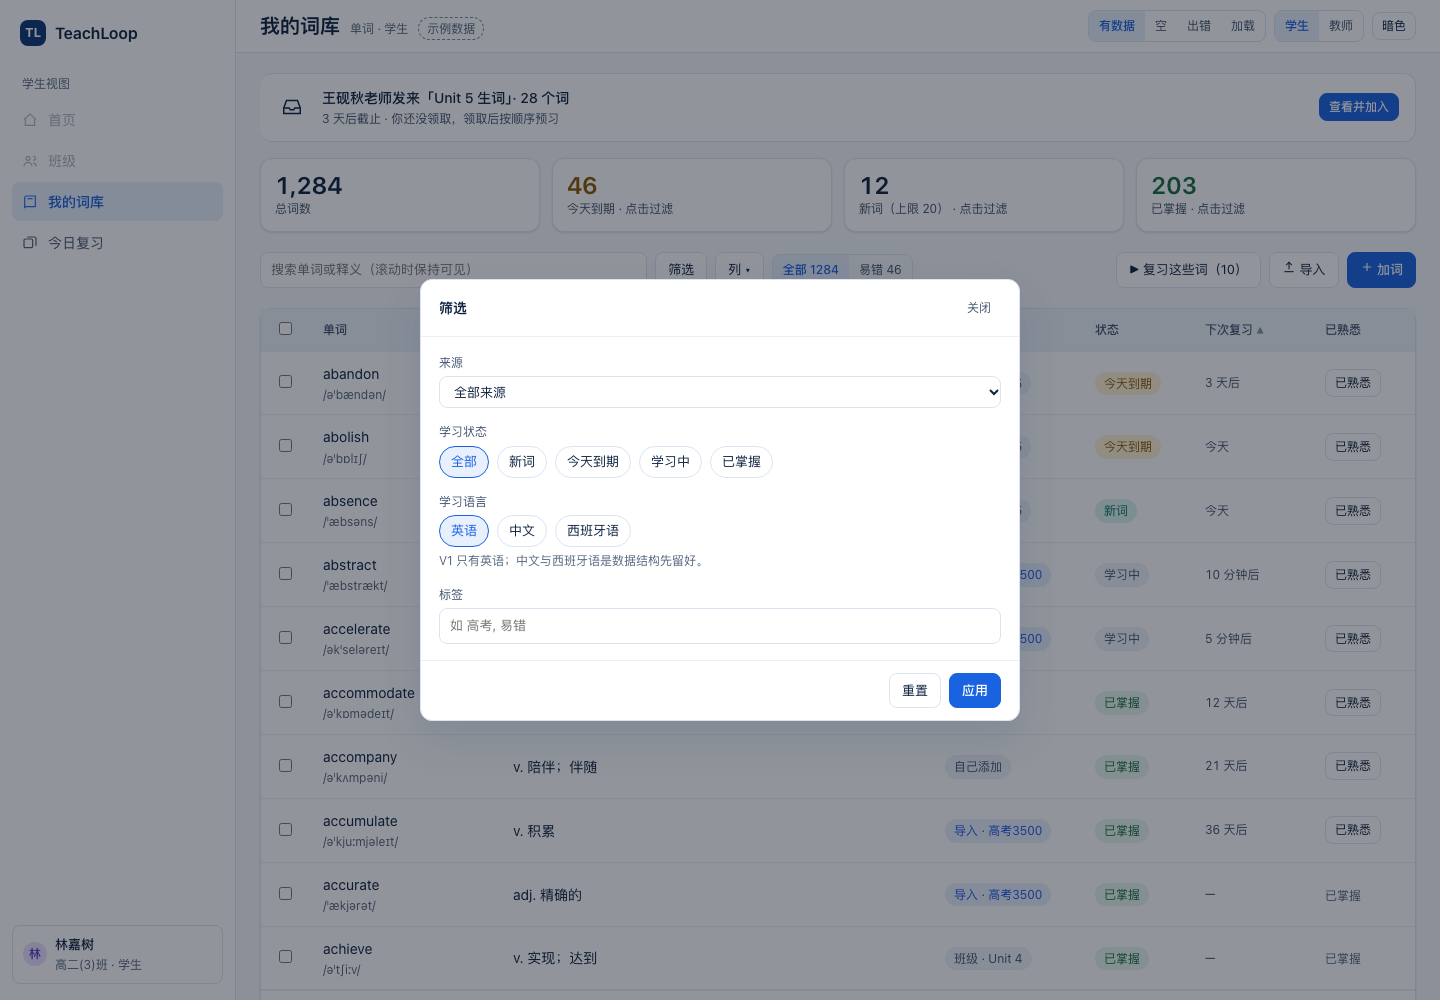
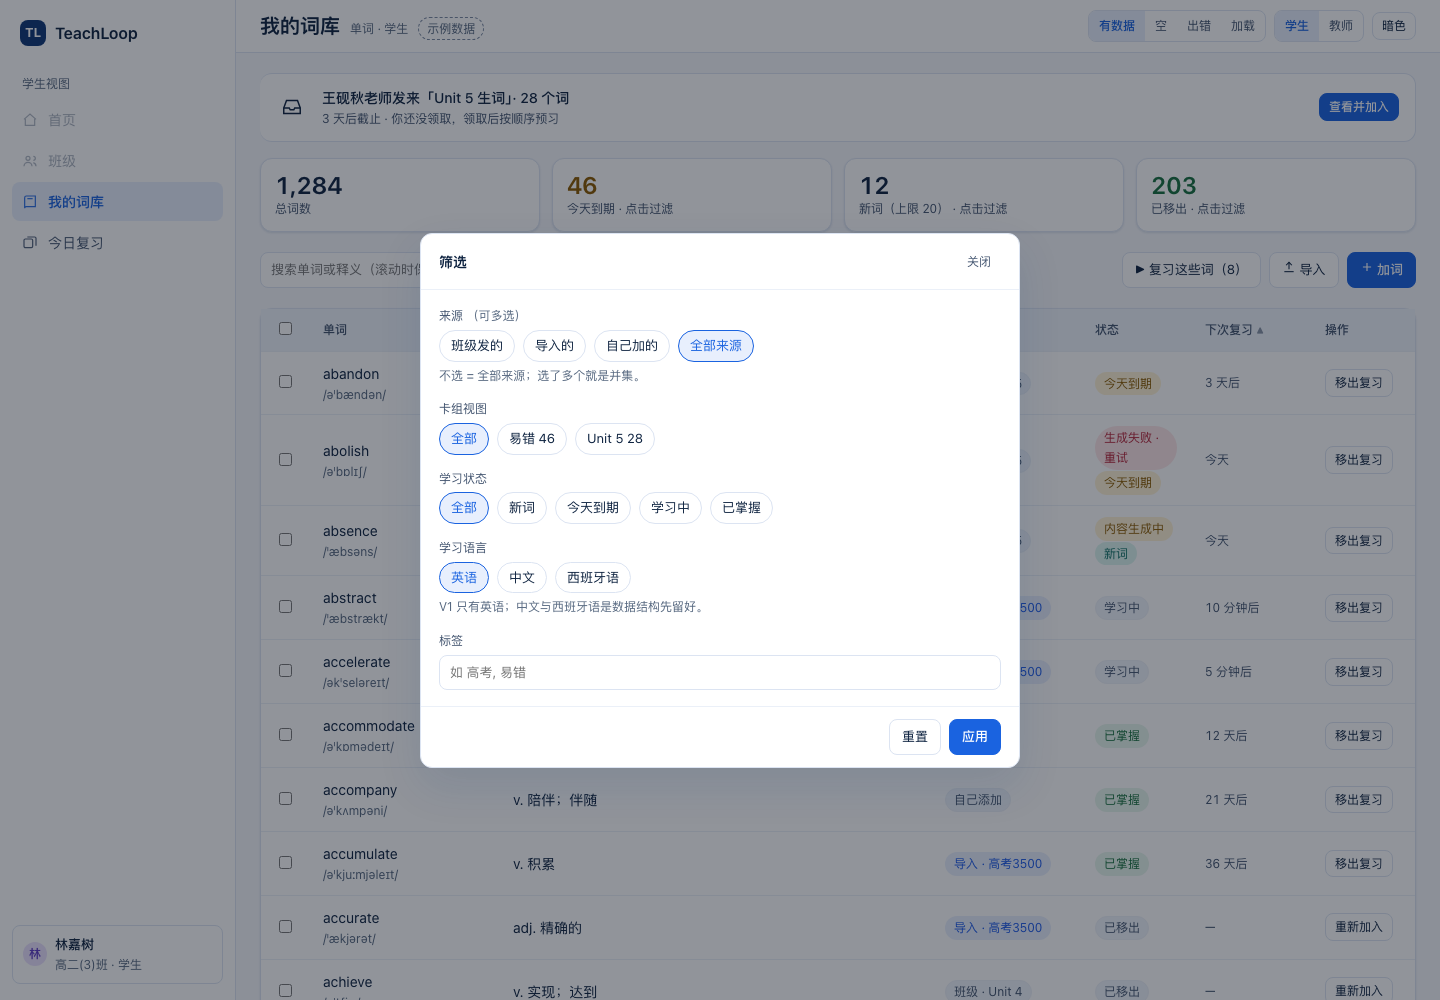
docs(vocab): 原型第四版——加词入口改词库按钮、视图并入筛选、复习范围=筛选结果
按 2026-10-23 第四轮反馈：

- 「加词 / 导入」不再占一级导航，入口改为词库工具条的「导入」「加词」两个按钮
  （分别落到文件 tab / 粘贴 tab）
- 移除工具条的「全部 1284 / 易错 46」切换，视图合并进筛选弹窗
- 「复习这些词」按筛选结果取数并排除「已移出」，按钮显示排除后的数量（示例 10−2=8）
- 筛选弹窗的「来源」改为多选（并集），新增「卡组视图」字段

spec 同步：AC-59.8 多选来源 + 视图进弹窗；AC-61.1 明确范围为筛选结果且排除已移出；
新增 §16 记录本轮四条反馈。

diff --git a/docs/mock/vocab-2026-10-23/index.html b/docs/mock/vocab-2026-10-23/index.html
@@ -347,7 +347,7 @@ const S = {
   cols:['def','src','st','next'],   // 除「单词」外的列，顺序即显示顺序
   colPop:false,
   modal:false,
-  popFilters:{src:'all', status:'all', lang:'en'},
+  popFilters:{src:[], deck:'all', status:'all', lang:'en'},
   free:false, freeTotal:0, freeIdx:0, freeKnown:0, freeRated:{again:0,hard:0,good:0,easy:0},
   detail:null, fav:['abandon','accumulate'], paused:[],
   addTab:'paste', setTab:'words', paste: SAMPLE_PASTE, parseDone:false,
@@ -373,7 +373,6 @@ const NAV = {
     { id:'classes', label:'班级', icon:'classes', disabled:true },
     { id:'library', label:'我的词库', icon:'library', screen:'library' },
     { id:'review', label:'今日复习', icon:'review', screen:'review' },
-    { id:'add', label:'加词 / 导入', icon:'upload', screen:'add' },
   ],
   teacher: [
     { id:'home', label:'首页', icon:'home', disabled:true },
@@ -443,79 +442,6 @@ function stateBlock(kind){
 }
 
 /* ---------------- 屏 1：我的词库 ---------------- */
-function screenLibraryLegacy(){
-  const BANNER = `
-  <div class="banner">
-    <div class="ic">${ICONS.inbox}</div>
-    <div style="flex:1;min-width:0">
-      <div style="font-weight:500">王砚秋老师发来「Unit 5 生词」· 28 个词</div>
-      <div class="sm muted">3 天后截止 · 你还没领取，领取后按顺序预习</div>
-    </div>
-    <button class="btn primary sm">查看并加入</button>
-  </div>`;
-  // 空库/出错时横幅仍然可见：新用户第一次进来，这个横幅就是唯一入口
-  if (S.ds!=='data') return BANNER + stateBlock(S.ds);
-  const srcOf = { all:'全部来源', class:'班级发的', import:'导入的', self:'自己加的' };
-  const filtered = WORDS.filter(w=>{
-    if (S.q && !(w.w.includes(S.q.toLowerCase()) || w.def.includes(S.q))) return false;
-    if (S.filter==='class' && !w.src.startsWith('班级')) return false;
-    if (S.filter==='import' && !w.src.startsWith('导入')) return false;
-    if (S.filter==='self' && !w.src.startsWith('自己')) return false;
-    if (S.view==='wrong' && !(w.st==='learn'||w.st==='due')) return false;
-    return true;
-  });
-  const stChip = w => w.st==='due' ? '<span class="chip due">今天到期</span>'
-    : w.st==='new' ? '<span class="chip assess">新词</span>'
-    : w.st==='learn' ? '<span class="chip">学习中</span>'
-    : '<span class="chip ok">已掌握</span>';
-  return BANNER + `
-  <div class="stats">
-    <div class="card stat"><div class="k mono">1,284</div><div class="l">总词数</div></div>
-    <div class="card stat"><div class="k mono" style="color:var(--amber)">46</div><div class="l">今天到期</div></div>
-    <div class="card stat"><div class="k mono">12</div><div class="l">新词（上限 20）</div></div>
-    <div class="card stat"><div class="k mono" style="color:var(--green)">203</div><div class="l">已掌握</div></div>
-  </div>
-
-  <div class="toolbar">
-    <input class="input grow" placeholder="搜索单词或释义" value="${S.q}" oninput="S.q=this.value;render()">
-    <select class="input" onchange="S.filter=this.value;render()">
-      ${['all','class','import','self'].map(k=>`<option value="${k}" ${S.filter===k?'selected':''}>${srcOf[k]}</option>`).join('')}
-    </select>
-    <div class="seg">
-      <button class="${S.view==='all'?'on':''}" onclick="S.view='all';render()">全部 1284</button>
-      <button class="${S.view==='wrong'?'on':''}" onclick="S.view='wrong';render()">易错 46</button>
-      <button onclick="toast('新建卡组视图：选来源、标签、学习状态 → 保存为筛选条件')">+ 卡组视图</button>
-    </div>
-    <div style="flex:1"></div>
-    <button class="btn">${ICONS.upload} 批量导入</button>
-    <button class="btn primary">${ICONS.plus} 加词</button>
-  </div>
-
-  <div class="card">
-    <table>
-      <thead><tr><th style="width:210px">单词</th><th>释义</th><th style="width:150px">来源</th><th style="width:110px">状态</th><th style="width:120px">下次复习</th><th style="width:70px"></th></tr></thead>
-      <tbody>
-        ${filtered.map(w=>`<tr>
-          <td><div class="word">${w.w}</div><div class="ph">${w.ph}</div></td>
-          <td>${w.def}${w.note?`<div class="sm muted-2">笔记：${w.note}</div>`:''}</td>
-          <td><span class="chip ${w.srcType}">${w.src}</span></td>
-          <td>${stChip(w)}</td>
-          <td class="mono sm muted">${w.due}</td>
-          <td><button class="btn ghost sm" title="朗读" onclick="toast('朗读 ${w.w}（TTS 缓存命中 32ms）')">${ICONS.speaker}</button></td>
-        </tr>`).join('')}
-        ${filtered.length===0?`<tr><td colspan="6"><div class="state" style="padding:28px"><h3>没有匹配的词</h3><p>换个关键词，或把来源切回「全部来源」。</p></div></td></tr>`:''}
-      </tbody>
-    </table>
-    <div class="between card-pad" style="border-top:1px solid var(--line-2)">
-      <span class="sm muted">共 ${filtered.length} 条（本页）· 显示前 10 条</span>
-      <div class="row"><button class="btn sm" disabled>上一页</button><button class="btn sm">下一页</button></div>
-    </div>
-  </div>
-  <div class="foot-note">卡组是「保存的筛选条件」，不拥有卡片：同一个词可以同时出现在「易错」和「Unit 5」两个视图里，但只排一次复习。「移出复习」= 不再安排这个词；词仍在库，可随时「重新加入」。</div>`;
-}
-
-/* ---------------- 屏 2：今日复习 ---------------- */
-
 function currentWord(){ return WORDS[(S.free? S.freeIdx : S.idx) % WORDS.length]; }
 function markKnown(word){
   if (!S.known.includes(word)) S.known.push(word);
@@ -542,10 +468,11 @@ function screenLibrary(){
   const known = w => S.known.includes(w) || w.st==='grad';
   let rows = WORDS.filter(w=>{
     if (S.q && !(w.w.includes(S.q.toLowerCase()) || w.def.includes(S.q))) return false;
-    if (S.filter==='class' && !w.src.startsWith('班级')) return false;
-    if (S.filter==='import' && !w.src.startsWith('导入')) return false;
-    if (S.filter==='self' && !w.src.startsWith('自己')) return false;
-    if (S.view==='wrong' && !(w.st==='learn'||w.st==='due')) return false;
+    if (S.popFilters.src.length && !S.popFilters.src.some(k =>
+          (k==='class' && w.src.startsWith('班级')) ||
+          (k==='import' && w.src.startsWith('导入')) ||
+          (k==='self' && w.src.startsWith('自己')))) return false;
+    if (S.popFilters.deck==='wrong' && !(w.st==='learn'||w.st==='due')) return false;
     if (S.card==='due' && w.st!=='due') return false;
     if (S.card==='new' && w.st!=='new') return false;
     if (S.card==='grad' && !known(w) && w.st!=='grad') return false;
@@ -558,6 +485,8 @@ function screenLibrary(){
     return (WORDS.indexOf(a)-WORDS.indexOf(b))*S.sortDir; // next：越靠前越早复习
   });
   const allSel = rows.length>0 && rows.every(w=>S.sel.includes(w.w));
+  // 「复习这些词」= 当前筛选结果里、没有被移出复习的词；不是本页显示的那几行
+  const reviewable = rows.filter(w=>!known(w));
   const COL = { def:'释义', src:'来源', st:'状态', next:'下次复习' };
   const genChip = w => w.gen==='pending' ? '<span class="chip due">内容生成中</span>'
     : w.gen==='failed' ? '<span class="chip" style="background:var(--red-weak);color:var(--red);border-color:transparent">生成失败 · 重试</span>' : '';
@@ -582,16 +511,12 @@ function screenLibrary(){
 
   <div class="toolbar sticky-tool">
     <input class="input grow" placeholder="搜索单词或释义（滚动时保持可见）" value="${S.q}" oninput="S.q=this.value;render()">
-    <button class="btn" onclick="S.modal=true;render()">筛选${S.card?' · 1':''}</button>
+    <button class="btn" onclick="S.modal=true;render()">筛选${filterCount()?' · '+filterCount():''}</button>
     <button class="btn" onclick="S.colPop=!S.colPop;render()">列 ▾</button>
-    <div class="seg">
-      <button class="${S.view==='all'?'on':''}" onclick="S.view='all';render()">全部 1284</button>
-      <button class="${S.view==='wrong'?'on':''}" onclick="S.view='wrong';render()">易错 46</button>
-    </div>
     <div style="flex:1"></div>
-    <button class="btn" onclick="startFree(rows.length)">▶ 复习这些词（${rows.length}）</button>
-    <button class="btn">${ICONS.upload} 导入</button>
-    <button class="btn primary">${ICONS.plus} 加词</button>
+    <button class="btn" onclick="startFree(reviewable.length)" ${reviewable.length?'':'disabled title="当前筛选结果里没有可复习的词"'}>▶ 复习这些词（${reviewable.length}）</button>
+    <button class="btn" onclick="S.addTab='file';S.screen='add';render()">${ICONS.upload} 导入</button>
+    <button class="btn primary" onclick="S.addTab='paste';S.screen='add';render()">${ICONS.plus} 加词</button>
   </div>
 
   ${S.colPop?`<div class="pop">
@@ -634,7 +559,7 @@ function screenLibrary(){
           ${S.cols.filter(c=>c==='next').map(()=>`<td class="mono sm muted">${known(w)?'—':w.due}</td>`).join('')}
           <td>${known(w)?`<button class="btn sm" onclick="unmarkKnown('${w.w}')">重新加入</button>`:`<button class="btn sm" onclick="markKnown('${w.w}');toast('已移出复习；可在词库筛「已移出」找回')">移出复习</button>`}</td>
         </tr>`).join('')}
-        ${rows.length===0?`<tr><td colspan="7"><div class="state" style="padding:28px"><h3>没有匹配的词</h3><p>清掉筛选或换个关键词试试。</p><button class="btn" onclick="S.card=null;S.q='';S.filters=null;S.popFilters={src:'all',status:'all',lang:'en'};render()">清空筛选</button></div></td></tr>`:''}
+        ${rows.length===0?`<tr><td colspan="7"><div class="state" style="padding:28px"><h3>没有匹配的词</h3><p>清掉筛选或换个关键词试试。</p><button class="btn" onclick="S.card=null;S.q='';S.popFilters={src:[],deck:'all',status:'all',lang:'en'};render()">清空筛选</button></div></td></tr>`:''}
       </tbody>
     </table>
     <div class="between card-pad" style="border-top:1px solid var(--line-2)">
@@ -652,10 +577,24 @@ function filterModal(){
     <div class="modal">
       <div class="hd"><b>筛选</b><button class="btn ghost sm" onclick="S.modal=false;render()">关闭</button></div>
       <div class="bd">
-        <div class="field"><label>来源</label>
-          <select class="input" onchange="S.popFilters.src=this.value">
-            <option value="all">全部来源</option><option>班级发的</option><option>导入的</option><option>自己加的</option>
-          </select></div>
+        <div class="field"><label>来源 <span class="muted-2">（可多选）</span></label>
+          <div class="class-pick">
+            ${[['class','班级发的'],['import','导入的'],['self','自己加的']].map(([v,l])=>{
+              const on = S.popFilters.src.includes(v);
+              return `<button class="class-chip ${on?'on':''}"
+                onclick="toggleSrc('${v}')">${on?'✓ ':''}${l}</button>`;
+            }).join('')}
+            <button class="class-chip ${S.popFilters.src.length?'':'on'}"
+              onclick="S.popFilters.src=[];render()">全部来源</button>
+          </div>
+          <div class="sm muted-2" style="margin-top:4px">不选 = 全部来源；选了多个就是并集。</div>
+        </div>
+        <div class="field"><label>卡组视图</label>
+          <div class="class-pick">
+            ${[['all','全部'],['wrong','易错 46'],['u5','Unit 5 28']].map(([v,l])=>
+              `<button class="class-chip ${S.popFilters.deck===v?'on':''}" onclick="S.popFilters.deck='${v}';render()">${l}</button>`).join('')}
+          </div>
+        </div>
         <div class="field"><label>学习状态</label>
           <div class="class-pick">
             ${[['all','全部'],['new','新词'],['due','今天到期'],['learn','学习中'],['grad','已掌握']].map(([v,l])=>
@@ -669,11 +608,13 @@ function filterModal(){
           <div class="sm muted-2" style="margin-top:4px">V1 只有英语；中文与西班牙语是数据结构先留好。</div></div>
         <div class="field"><label>标签</label><input class="input" placeholder="如 高考, 易错"></div>
       </div>
-      <div class="ft"><button class="btn" onclick="S.popFilters={src:'all',status:'all',lang:'en'};render()">重置</button>
+      <div class="ft"><button class="btn" onclick="S.popFilters={src:[],deck:'all',status:'all',lang:'en'};S.card=null;render()">重置</button>
         <button class="btn primary" onclick="S.modal=false;render();toast('筛选已应用（条件写进 URL）')">应用</button></div>
     </div></div>`;
 }
 
+function toggleSrc(v){ const a=S.popFilters.src; S.popFilters.src = a.includes(v)?a.filter(x=>x!==v):[...a,v]; render(); }
+function filterCount(){ let n=0; if(S.popFilters.src.length) n++; if(S.popFilters.deck!=='all') n++; if(S.popFilters.status!=='all') n++; if(S.popFilters.lang!=='en') n++; if(S.card) n++; return n; }
 function toggleSel(w){ S.sel = S.sel.includes(w)?S.sel.filter(x=>x!==w):[...S.sel,w]; render(); }
 function toggleAll(on){ S.sel = on?'':[]; if(on){} render(); }
 function bulkKnown(){ S.known=[...new Set([...S.known,...S.sel])]; toast(`已将 ${S.sel.length} 个词移出复习`); S.sel=[]; render(); }
